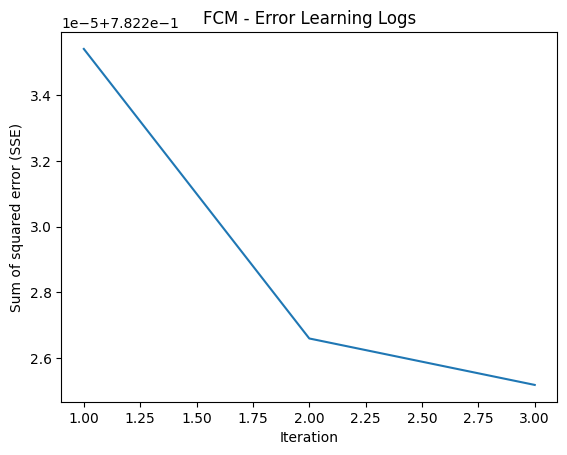
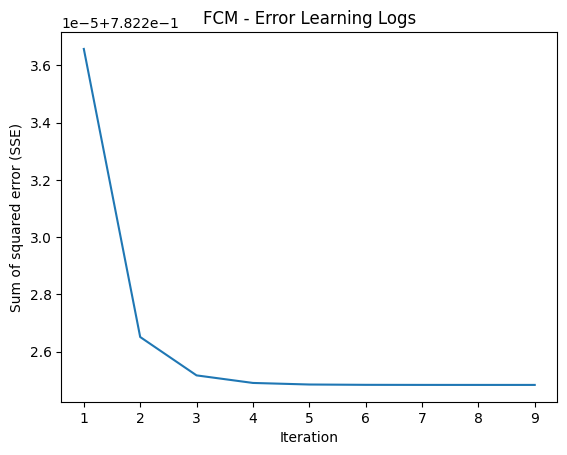
refactor fcm

diff --git a/logic/1-model/p7_model_train_fcm.py b/logic/1-model/p7_model_train_fcm.py
@@ -8,26 +8,18 @@ EXPORT_STRING = '\033[92m' + "Export :" + '\033[0m'
 PROCESS_STRING = '\033[35m' + "Process :" + '\033[0m'
 root_path = os.getcwd()
 
-# FCM: variables default
-n_clusters = 4
-n_data = 120
-n_dimension = 2
-fuzzy_param = 1.8
-max_iter = 20
-threshold = 1e-6
-
 # FCM: helper functions
 def square_dist(x, y):
     return np.sum(np.square(x - y))
 
-def SSE(weights, inputs, centroids, p = fuzzy_param):
+def SSE(weights, inputs, centroids, p = 1.75):
     sse = 0
     for k in range(n_clusters):
         for i in range(n_data):
             sse += (weights[i,k] ** p) * square_dist(inputs[i], centroids[k])
     return sse
 
-def get_centroids(weights, inputs, p = fuzzy_param):
+def get_centroids(weights, inputs, p = 1.75):
     centroids = np.zeros((n_clusters, n_dimension))
     for k in range(n_clusters):
         denom = 0
@@ -39,7 +31,7 @@ def get_centroids(weights, inputs, p = fuzzy_param):
             centroids[k,d] = num/denom
     return centroids
 
-def update_weights(weights, inputs, centroids, p = fuzzy_param):
+def update_weights(weights, inputs, centroids, p = 1.75):
     new_weights = np.copy(weights)
     for k in range(n_clusters):
         for i in range(n_data):
@@ -82,31 +74,39 @@ n_clusters = n_data//200
 n_dimension = inputs.shape[1]
 fuzzy_param = 1.8
 max_iter = 20
-threshold = 1e-6
+threshold = 1e-10
 
 # FCM: init weights, centroids
 weights = np.random.rand(n_data, n_clusters)
 centroids = None
 # FCM: learn
 print(PROCESS_STRING, "FCM Learning")
+print(f"Parameters:"
+    + f"\n  fuzzy param = {fuzzy_param} "
+    + f"\n  threshold = {threshold} "
+    + f"\n  num of clusters = {n_clusters}")
 log_sse = []
+log_sse_diff = []
 last_sse = float("inf")
 for i in range(max_iter):
     # For progress checking
     t_start = time.time()
     print(f"Iteration: {i+1}/{max_iter} Status: computing...", end ="\r")
     # learn
-    new_centroids = get_centroids(weights, inputs)
-    new_weights = update_weights(weights, inputs, new_centroids)
-    new_sse = SSE(new_weights, inputs, new_centroids)
-    if (last_sse - new_sse) > threshold:
+    new_centroids = get_centroids(weights, inputs, fuzzy_param)
+    new_weights = update_weights(weights, inputs, new_centroids, fuzzy_param)
+    new_sse = SSE(new_weights, inputs, new_centroids, fuzzy_param)
+    sse_diff = last_sse - new_sse
+    if (sse_diff) > threshold:
         weights = new_weights
         centroids = new_centroids
         last_sse = new_sse
         log_sse.append(new_sse)
+        log_sse_diff.append(sse_diff)
         # progress stats
         t_elapsed = time.time()-t_start
-        print(f"\rIteration: {i+1}/{max_iter} Status: Done - Elapsed: {t_elapsed:.3f}s Error: {new_sse}")
+        print(f"\rIteration: {i+1}/{max_iter} Status: Done - "
+            + f"Elapsed: {t_elapsed:.3f}s E: {new_sse} dE:{sse_diff}")
     else:
         print(f"\rIteration: {i+1}/{max_iter} Status: stopping, change of error < threshold")
         break
